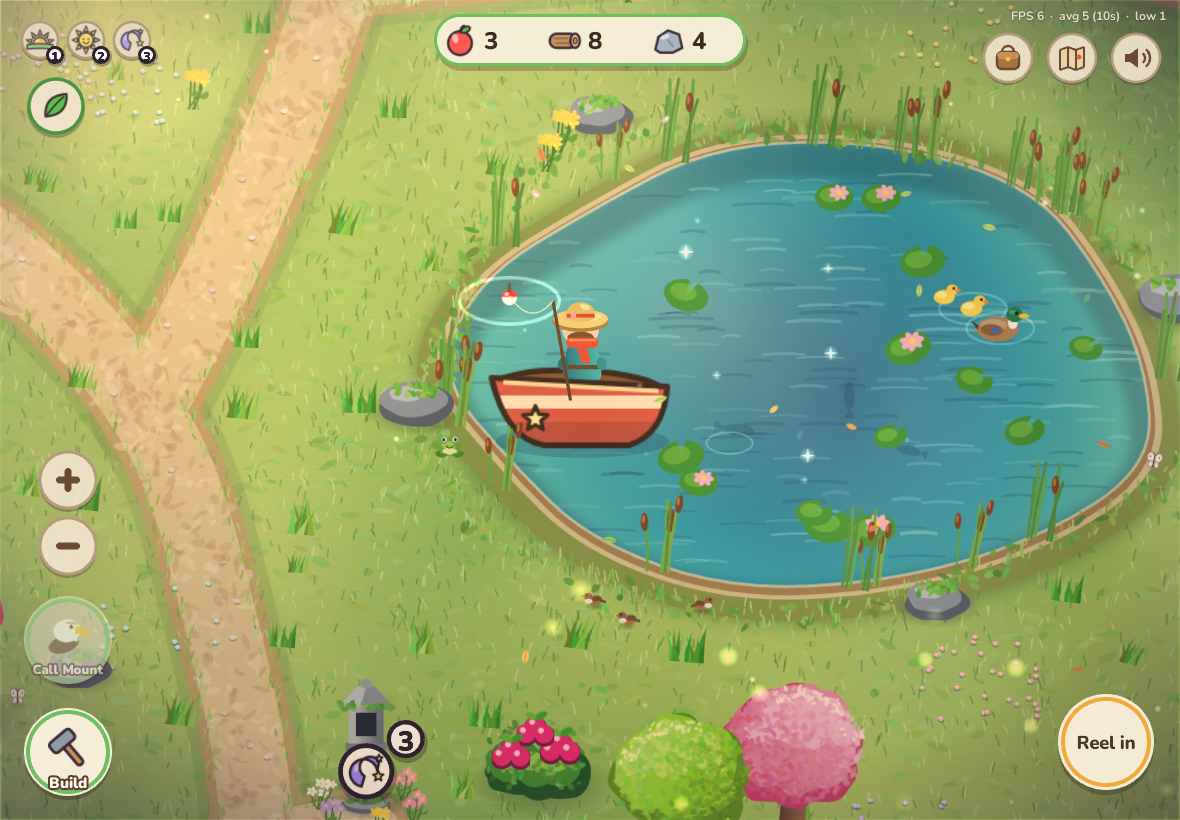
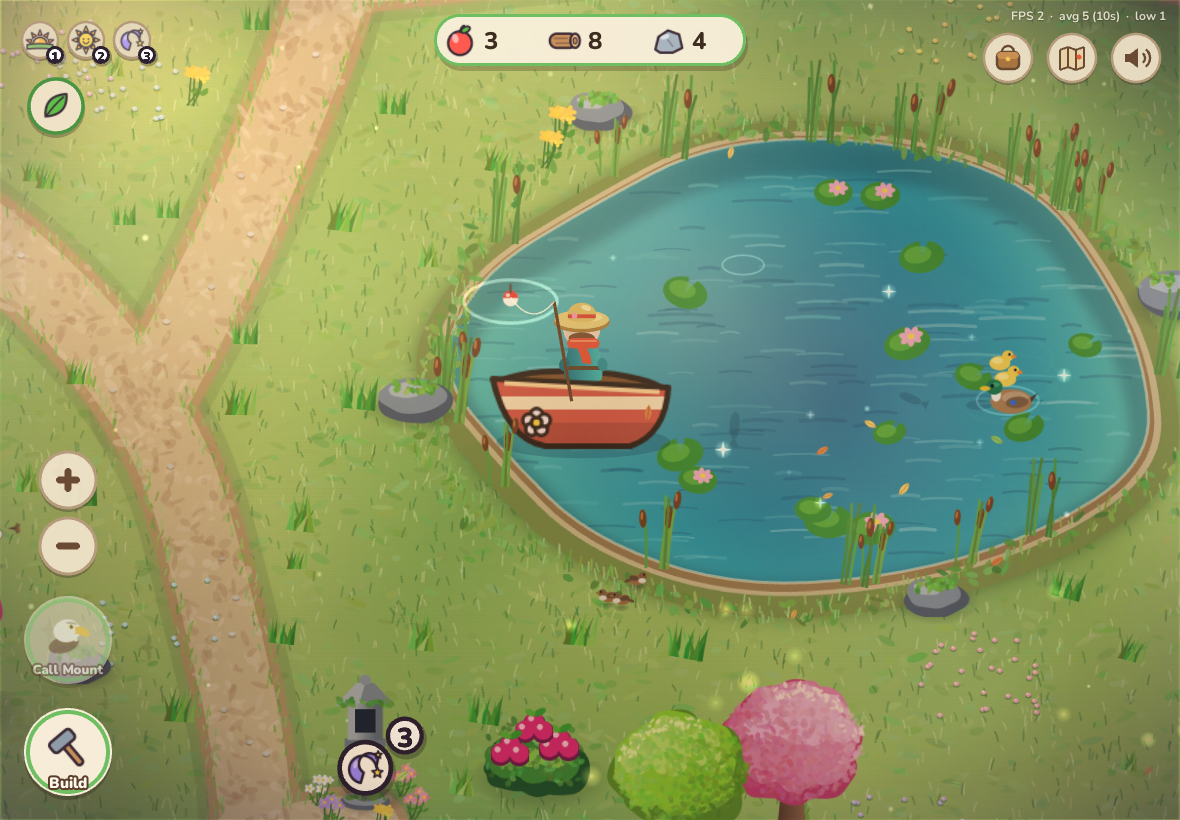
boats slice 3: What's new, theme screenshots

diff --git a/src/wardrobeArt.ts b/src/wardrobeArt.ts
@@ -1,0 +1,80 @@
+// Wardrobe item art (9.36): each cosmetic on its own (a hat on the shelf, a scarf on a hook, a coat on
+// a hanger), cut out of the hero painter by painting the hero with and without the item and keeping
+// only the pixels that change. One source of truth: items always match what the hero wears.
+import Phaser from 'phaser';
+import { paintHero, HERO_W, HERO_H } from './hero';
+import { DEFAULT_LOOK, type Look } from './save';
+import { COSMETICS, type Cosmetic } from './catalog';
+
+const SC = 3;
+
+/** The look to compare against: the same outfit with this slot taken off (or swapped for a very different colour). */
+function without(c: Cosmetic): Look {
+  const l: Look = { ...DEFAULT_LOOK, hat: 'none', scarf: 'none', back: 'none', feather: false, shells: false } as Look;
+  if (c.slot === 'outfit') (l as any).outfit = c.value === 'koi' ? 'ranger' : 'koi';
+  return l;
+}
+function withItem(c: Cosmetic): Look {
+  const l = without(c);
+  if (c.slot === 'outfit') (l as any).outfit = c.value;
+  else (l as any)[c.slot] = c.value;
+  return l;
+}
+
+function paint(look: Look, dir: number) {
+  const cv = document.createElement('canvas');
+  cv.width = Math.ceil(HERO_W * SC); cv.height = Math.ceil(HERO_H * SC);
+  const ctx = cv.getContext('2d', { willReadFrequently: true })!;
+  ctx.scale(SC, SC); ctx.lineCap = 'round'; ctx.lineJoin = 'round';
+  paintHero(ctx as any, dir, 0, look);
+  return ctx.getImageData(0, 0, cv.width, cv.height);
+}
+
+/** Is this the "take it off" entry (no hat, no scarf, nothing on the back)? */
+export const isNoneItem = (c: Cosmetic) => c.value === 'none';
+
+/** Builds the 'wardrobe-items' texture: one trimmed frame per cosmetic (none-items get an empty frame). */
+export function buildWardrobeItems(scene: Phaser.Scene, key = 'wardrobe-items') {
+  if (scene.textures.exists(key)) return key;
+  const cuts: { id: string; data: ImageData | null }[] = [];
+  for (const c of COSMETICS) {
+    if (isNoneItem(c)) { cuts.push({ id: c.id, data: null }); continue; }
+    const dir = c.id === 'back:backpack' ? 2 : 0;
+    const a = paint(withItem(c), dir), b = paint(without(c), dir);
+    const W = a.width, H = a.height;
+    let x0 = W, y0 = H, x1 = -1, y1 = -1;
+    const out = new ImageData(W, H);
+    for (let i = 0; i < W * H; i++) {
+      const p = i * 4;
+      const d = Math.abs(a.data[p] - b.data[p]) + Math.abs(a.data[p + 1] - b.data[p + 1]) + Math.abs(a.data[p + 2] - b.data[p + 2]) + Math.abs(a.data[p + 3] - b.data[p + 3]) * 2;
+      if (d < 40 || a.data[p + 3] < 20) continue;
+      out.data[p] = a.data[p]; out.data[p + 1] = a.data[p + 1]; out.data[p + 2] = a.data[p + 2]; out.data[p + 3] = a.data[p + 3];
+      const x = i % W, y = (i / W) | 0;
+      if (x < x0) x0 = x; if (x > x1) x1 = x; if (y < y0) y0 = y; if (y > y1) y1 = y;
+    }
+    if (x1 < 0) { cuts.push({ id: c.id, data: null }); continue; }
+    const tw = x1 - x0 + 1, th = y1 - y0 + 1;
+    const t = document.createElement('canvas'); t.width = W; t.height = H;
+    t.getContext('2d')!.putImageData(out, 0, 0);
+    const tc = document.createElement('canvas'); tc.width = tw; tc.height = th;
+    tc.getContext('2d')!.drawImage(t, x0, y0, tw, th, 0, 0, tw, th);
+    cuts.push({ id: c.id, data: tc.getContext('2d')!.getImageData(0, 0, tw, th) });
+  }
+  // Pack in a row (sizes are small).
+  const pad = 2;
+  const sheetW = cuts.reduce((s, c) => s + (c.data?.width ?? 8) + pad, 0);
+  const sheetH = Math.max(8, ...cuts.map((c) => c.data?.height ?? 8));
+  const sheet = document.createElement('canvas'); sheet.width = sheetW; sheet.height = sheetH;
+  const sctx = sheet.getContext('2d')!;
+  const frames: [string, number, number, number, number][] = [];
+  let x = 0;
+  for (const c of cuts) {
+    const w = c.data?.width ?? 8, h = c.data?.height ?? 8;
+    if (c.data) sctx.putImageData(c.data, x, 0);
+    frames.push([c.id, x, 0, w, h]);
+    x += w + pad;
+  }
+  const tex = scene.textures.addImage(key, sheet as unknown as HTMLImageElement)!;
+  for (const [id, fx, fy, fw, fh] of frames) tex.add(id, 0, fx, fy, fw, fh);
+  return key;
+}

diff --git a/src/whatsnew.ts b/src/whatsnew.ts
@@ -3,12 +3,12 @@
 // Keep each bullet short and simple: kids read these.
 // icon: 'wood' | 'fruit' | 'berry' | 'star' | 'heart' (a little picture beside the line).
 
-export const VERSION = '2026-10-23-boatfish';
+export const VERSION = '2026-10-23-boatskins';
 
 export type WhatsNewItem = { icon: 'wood' | 'fruit' | 'berry' | 'star' | 'heart'; text: string };
 
 export const ITEMS: WhatsNewItem[] = [
-  { icon: 'fruit', text: 'Fish from your boat! Row out on the water, then tap your boat to cast a line.' },
+  { icon: 'fruit', text: 'Fish from your boat! Row out on the water, then tap your boat to cast a line. Each season paints the boat a new color.' },
   { icon: 'heart', text: 'Row, row, row your boat! Tap the little red boat at the pond or the lake to climb in. Tap the shore to hop out.' },
   { icon: 'star', text: 'Fly anywhere! While riding your mount, tap Home, Village, Pond and more to zoom straight there.' },
   { icon: 'heart', text: 'Each time you come back, you start somewhere new in the glade. Where will you pop up?' },
